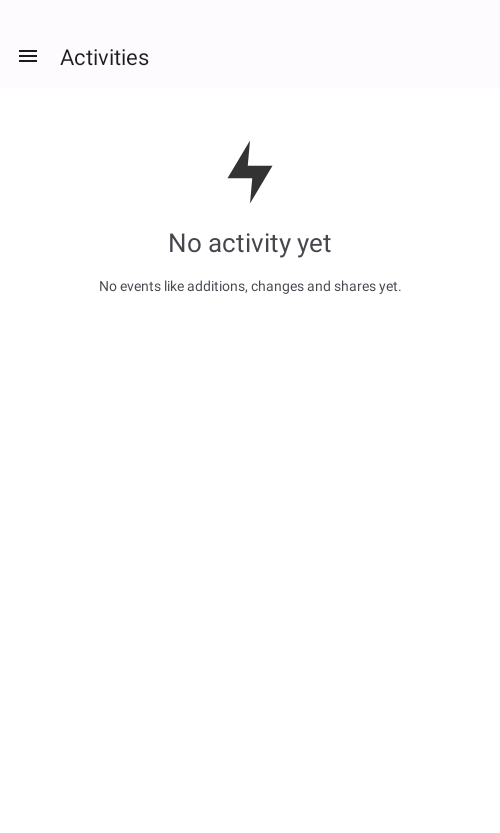
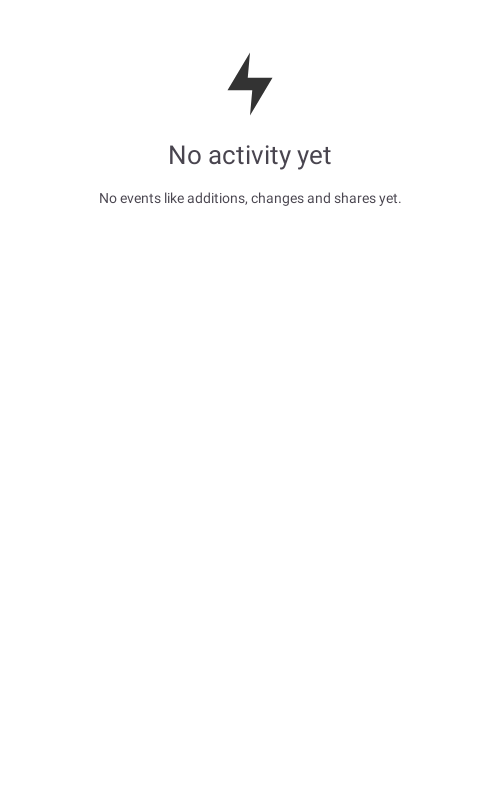
Use views rather than activity

diff --git a/app/src/androidTest/java/com/owncloud/android/ui/activity/UploadFilesActivityIT.kt b/app/src/androidTest/java/com/owncloud/android/ui/activity/UploadFilesActivityIT.kt
@@ -58,7 +58,7 @@ class UploadFilesActivityIT : AbstractIT() {
         waitForIdleSync()
         longSleep()
 
-        screenshot(sut.fileListFragment.binding.listFragmentLayout)
+        screenshot(sut)
     }
 
     @Test
